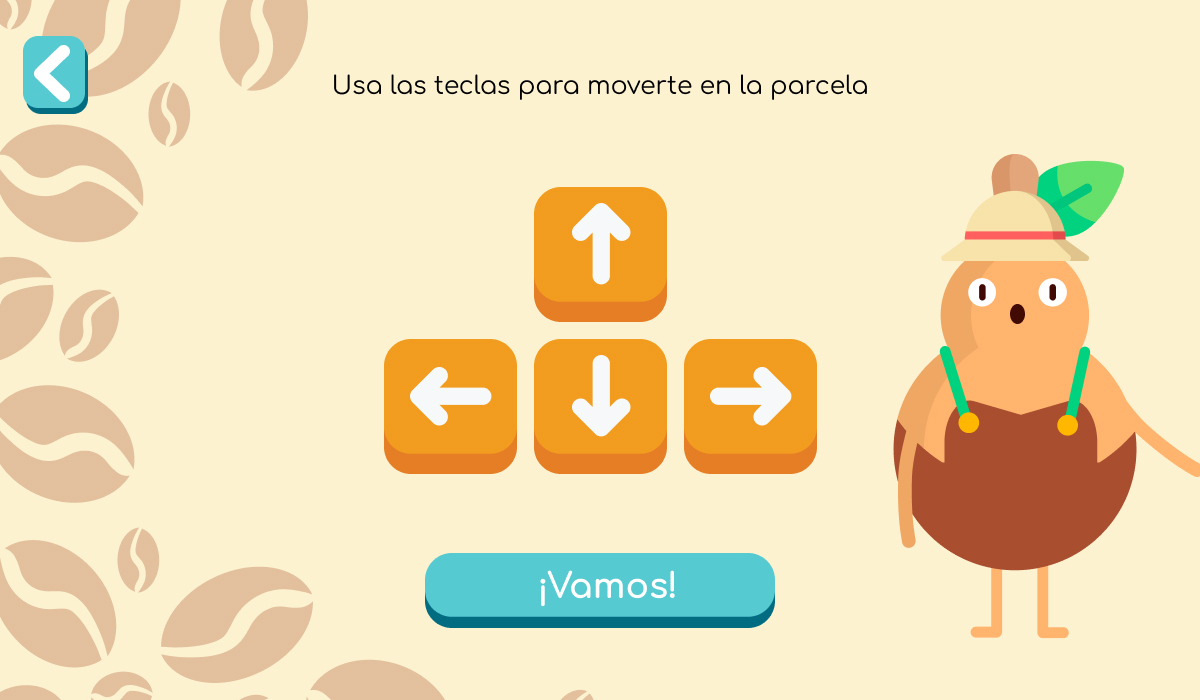
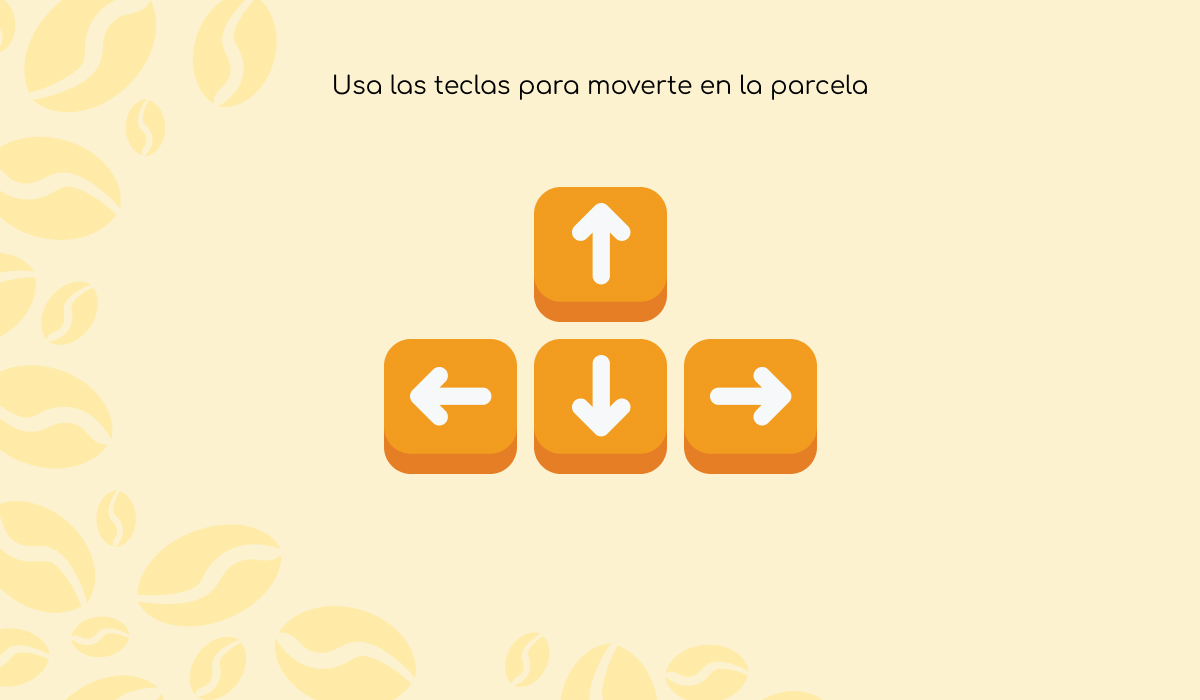
Siguiente de las pantallas de instrucciones

Changed region(s): [[0.0, 0.36, 0.6783, 1.0], [0.74, 0.21, 1.0, 0.93], [0.0, 0.0, 0.2775, 0.36]]

diff --git a/src/modelo/Logica.java b/src/modelo/Logica.java
@@ -7,38 +7,39 @@ import processing.core.PConstants;
 import processing.core.PImage;
 
 public class Logica {
-	
+
 	Mapa mapa;
 	Personaje personaje;
 	Enemigo enemi;
 	Herramienta herramienta;
 
-	private int estado,segundos,minutos;
-	
+	private int estado, segundos, minutos;
+
 	PImage[] pantalla;
 	PImage[] adornoMatriz;
 	PImage[] herramientas;
+
+	PImage[] botones;
 
 	PImage muro1;
 	PImage muro2;
 	PImage muro3;
 	PImage muro4;
 	PImage muro5;
-	
+
 	PImage nivel;
 	PImage enemigo;
 	PImage persona;
 	PImage vida;
-	
+
 	PImage herramienta1;
-	
+
 	ArrayList<Herramienta> listaHerramienta;
 	ArrayList<Enemigo> enemigos;
-	
-	
+
 	public Logica(PApplet app) {
 
-		estado = 5;
+		estado = 3;
 		segundos = 59;
 		minutos = 2;
 
@@ -47,9 +48,9 @@ public class Logica {
 		muro3 = app.loadImage("Muro3.png");
 		muro4 = app.loadImage("Muro4.png");
 		muro5 = app.loadImage("Muro5.png");
-		
+
 		persona = app.loadImage("Personaje.png");
-		
+
 		pantalla = new PImage[5];
 		pantalla[0] = app.loadImage("pantallainicio.jpg");
 		pantalla[1] = app.loadImage("PantallaLogin.jpg");
@@ -58,35 +59,41 @@ public class Logica {
 		pantalla[4] = app.loadImage("Instrucciones2.jpg");
 
 		nivel = app.loadImage("Nivel1.jpg");
-	
+
 		enemigo = app.loadImage("Enemigo1.png");
-		
+
 		adornoMatriz = new PImage[5];
 		adornoMatriz[0] = app.loadImage("Arbol.png");
 		adornoMatriz[1] = app.loadImage("Pala.png");
 		adornoMatriz[2] = app.loadImage("Matas.png");
 		adornoMatriz[3] = app.loadImage("Tronco.png");
 		adornoMatriz[4] = app.loadImage("Lago.png");
-		
+
 		herramientas = new PImage[2];
 		herramientas[0] = app.loadImage("Herramienta1.png");
 		herramientas[1] = app.loadImage("Herramienta2.png");
-		
+
+		botones = new PImage[4];
+		botones[0] = app.loadImage("Boton1.png");
+		botones[1] = app.loadImage("BotonOprimido1.png");
+		botones[2] = app.loadImage("Boton2.png");
+		botones[3] = app.loadImage("BotonOprimido2.png");
+
 		vida = app.loadImage("Vida.png");
-		
+
 		herramienta1 = app.loadImage("Herramienta1.png");
-		
+
 		mapa = new Mapa(muro1, muro2, muro3, muro4, muro5, app);
 		personaje = new Personaje(1, 1, mapa);
-		
-		enemigos  = new ArrayList<>();
-		enemigos.add(new Enemigo(8,1,mapa,0));
-		enemigos.add(new Enemigo(10,5,mapa,1));
-		enemigos.add(new Enemigo(4,10,mapa,0));
-		enemigos.add(new Enemigo(1,15,mapa,1));
-		enemigos.add(new Enemigo(1,20,mapa,0));
-		enemigos.add(new Enemigo(2,22,mapa,0));
-		
+
+		enemigos = new ArrayList<>();
+		enemigos.add(new Enemigo(8, 1, mapa, 0));
+		enemigos.add(new Enemigo(10, 5, mapa, 1));
+		enemigos.add(new Enemigo(4, 10, mapa, 0));
+		enemigos.add(new Enemigo(1, 15, mapa, 1));
+		enemigos.add(new Enemigo(1, 20, mapa, 0));
+		enemigos.add(new Enemigo(2, 22, mapa, 0));
+
 		herramienta = new Herramienta(0, 0);
 		listaHerramienta = new ArrayList<Herramienta>();
 		listaHerramienta.add(new Herramienta(8, 8));
@@ -115,69 +122,91 @@ public class Logica {
 
 		// Pantalla Instrucciones 1
 		case 3:
+			// Imagen Fondo
 			app.image(pantalla[3], 0, 0);
+
+			// Imagen Boton
+			app.image(botones[0], 498, 520);
+
+			// Si esta el mouse encima del Boton mostrar imagen Boton Oprimido
+			// Esto es mas que todo estetica
+			if (app.mouseX > 498 && app.mouseX < 498 + 208 && app.mouseY > 520 && app.mouseY < 520 + 80) {
+				app.image(botones[1], 498, 520);
+			}
 			break;
 
 		// Pantalla Instrucciones 2
 		case 4:
+			// Imagen Fondo
 			app.image(pantalla[4], 0, 0);
+
+			// Imagen Boton
+			app.image(botones[2], 425, 553);
+
+			// Si esta el mouse encima del Boton mostrar imagen Boton Oprimido
+			// Esto es mas que todo estetica
+			if (app.mouseX > 425 && app.mouseX < 425 + 350 && app.mouseY > 553 && app.mouseY < 553 + 75) {
+				app.image(botones[3], 425, 553);
+			}
 			break;
 
 		// Pantalla nivel 1
 		case 5:
 			app.imageMode(PConstants.CORNER);
 			app.image(nivel, 0, 0);
-			
+
 			mapa.pintar();
-			personaje.pintar(app,persona);
-			
+			personaje.pintar(app, persona);
+
 			// int index, condicion, accion a srguir
-			//tipo de referencia instancio => lista 
+			// tipo de referencia instancio => lista
 			for (Enemigo enemigo : enemigos) {
 				enemigo.pintar(app, this.enemigo);
 				enemigos.indexOf(enemigo);
 			}
-			new Thread(
-					new Runnable() {
-						@Override
-						public void run() {
-							try {
-								if(app.frameCount%60==0) {
-									for (Enemigo enemigo : enemigos) {
-										enemigo.tipoDireccion();
-									}
-								}
-								Thread.sleep(1000);
-								
-							} catch (InterruptedException e) {
-								e.printStackTrace();
+			new Thread(new Runnable() {
+				@Override
+				public void run() {
+					try {
+						if (app.frameCount % 60 == 0) {
+							for (Enemigo enemigo : enemigos) {
+								enemigo.tipoDireccion();
 							}
 						}
+						Thread.sleep(1000);
+
+					} catch (InterruptedException e) {
+						e.printStackTrace();
 					}
-					).start();
-				
+				}
+			}).start();
+
 			app.imageMode(PConstants.CORNER);
 			pintarAdornos(app);
-			
+
 			temporizador(app);
-			
-			//For para pintar las vidas del personaje
+
+			// For para pintar las vidas del personaje
 			app.imageMode(PConstants.CENTER);
 			for (int i = 0; i < personaje.getVidas(); i++) {
-				app.image(vida, 993 + i*30, 50);}
-			
-			//For para pintar la lista de herramientas, para validar el area sensible de personaje y herramienta
-			//Si se coincide con el area sensible de los dos, el personaje obtiene 1 vida y la herramienta se elimina de la lista de herramientas
+				app.image(vida, 993 + i * 30, 50);
+			}
+
+			// For para pintar la lista de herramientas, para validar el area sensible de
+			// personaje y herramienta
+			// Si se coincide con el area sensible de los dos, el personaje obtiene 1 vida y
+			// la herramienta se elimina de la lista de herramientas
 			for (int i = 0; i < listaHerramienta.size(); i++) {
 				listaHerramienta.get(i).pintar(app, herramienta1);
 				Herramienta herramientaActual = listaHerramienta.get(i);
-				if ((personaje.getX() -25 >= herramientaActual.getX()-25 && personaje.getX() -25 <= herramientaActual.getX()-25 + 50)
-						|| (personaje.getX() -25 + 50 >= herramientaActual.getX()-25
-								&& personaje.getX()-25 + 50 <= herramientaActual.getX()-9 + 50)) {
-					if ((personaje.getY()-25 >= herramientaActual.getY()-25
-							&& personaje.getY()-25 <= herramientaActual.getY() + 50)
-						|| (personaje.getY()-25 + persona.height >= herramientaActual.getY() -25
-								&& personaje.getY()-25 + persona.height <= herramientaActual.getY()-25 + 50)) {
+				if ((personaje.getX() - 25 >= herramientaActual.getX() - 25
+						&& personaje.getX() - 25 <= herramientaActual.getX() - 25 + 50)
+						|| (personaje.getX() - 25 + 50 >= herramientaActual.getX() - 25
+								&& personaje.getX() - 25 + 50 <= herramientaActual.getX() - 9 + 50)) {
+					if ((personaje.getY() - 25 >= herramientaActual.getY() - 25
+							&& personaje.getY() - 25 <= herramientaActual.getY() + 50)
+							|| (personaje.getY() - 25 + persona.height >= herramientaActual.getY() - 25
+									&& personaje.getY() - 25 + persona.height <= herramientaActual.getY() - 25 + 50)) {
 						personaje.darVida();
 						listaHerramienta.remove(i);
 					}
@@ -187,21 +216,21 @@ public class Logica {
 
 		// Pantalla nivel 2
 		case 6:
-			
+
 			break;
 
 		// Pantalla nivel 3
 		case 7:
-			
+
 			break;
-			
+
 		// Pantalla nivel 4
 		case 8:
-			
+
 			break;
 		}
 	}
-	
+
 	public Personaje getPersonaje() {
 		return personaje;
 	}
@@ -209,7 +238,7 @@ public class Logica {
 	public void setPersonaje(Personaje personaje) {
 		this.personaje = personaje;
 	}
-	
+
 	// Se pintaron los objetos del mapa
 	public void pintarAdornos(PApplet app) {
 		app.image(adornoMatriz[0], 89, 309);
@@ -220,22 +249,22 @@ public class Logica {
 		app.image(adornoMatriz[0], 545, 306);
 		app.image(adornoMatriz[0], 638, 407);
 		app.image(adornoMatriz[0], 784, 314);
-		
+
 		app.image(adornoMatriz[4], 875, 400);
-		
+
 		app.image(adornoMatriz[3], 820, 231);
 		app.image(adornoMatriz[3], 880, 231);
 		app.image(adornoMatriz[3], 845, 260);
-		
+
 		app.image(adornoMatriz[2], 567, 200);
 		app.image(adornoMatriz[2], 515, 265);
 		app.image(adornoMatriz[2], 600, 265);
 		app.image(adornoMatriz[2], 843, 465);
 		app.image(adornoMatriz[2], 919, 465);
-		
-		app.image(adornoMatriz[1], 297, 206 );
+
+		app.image(adornoMatriz[1], 297, 206);
 	}
-	
+
 	public void temporizador(PApplet app) {
 		if (app.frameCount % 60 == 0 && minutos >= 0) {
 			segundos--;
@@ -259,4 +288,22 @@ public class Logica {
 		}
 	}
 
+	public void clic(PApplet app) {
+		switch (estado) {
+		case 3:
+			// Cuando se le de clic en el boton Inicio pasar a la otra pantalla de
+			// instrucciones
+			if (app.mouseX > 498 && app.mouseX < 498 + 208 && app.mouseY > 520 && app.mouseY < 520 + 80) {
+				estado = 4;
+			}
+			break;
+		case 4:
+			// Cuando se le de clic en el boton Inicio pasar a la otra pantalla de
+			// instrucciones
+			if (app.mouseX > 425 && app.mouseX < 425 + 350 && app.mouseY > 553 && app.mouseY < 553 + 75) {
+				estado =5; 
+			}
+			break;
+		}
+	}
 }

diff --git a/src/vista/Main.java b/src/vista/Main.java
@@ -25,7 +25,10 @@ public class Main extends PApplet {
 		background(255);
 
 		control.pintarPantalla(this);
-
+	}
+	
+	public void mousePressed() {
+		control.clic(this);
 	}
 	
 	public void keyPressed() {

diff --git a/src/controlador/Control.java b/src/controlador/Control.java
@@ -29,6 +29,10 @@ public class Control {
 			break;
 		}
 	}
+	
+	public void clic (PApplet app) {
+		logica.clic(app);
+	}
 }
 
 
